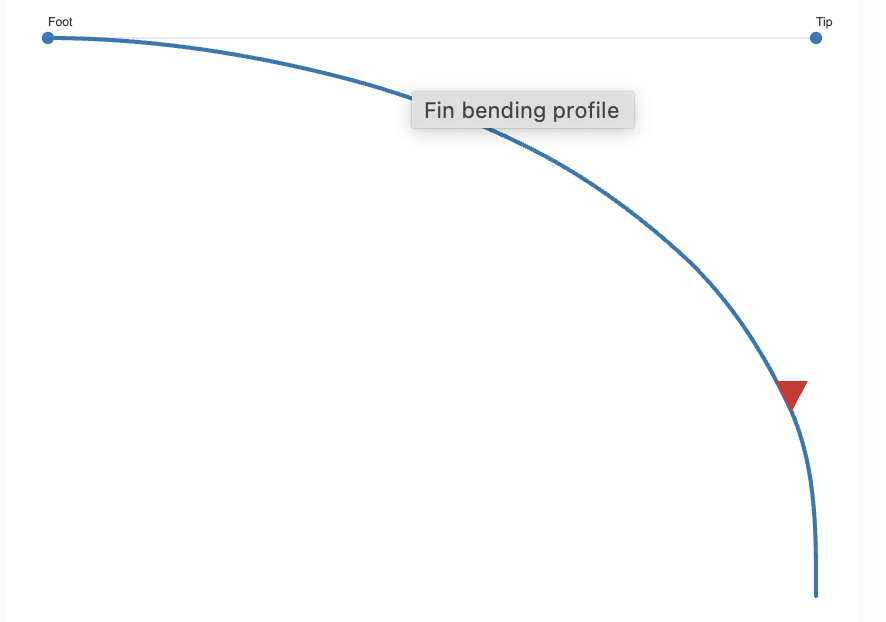
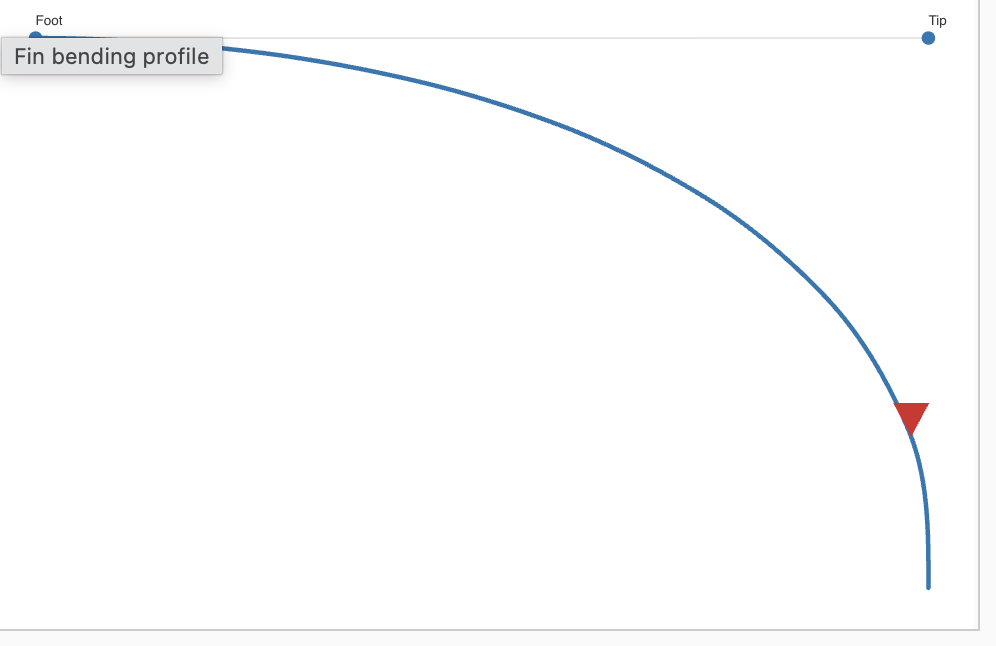
feat: add the monofin plan

Changed region(s): [[0.0, 0.0, 1.0, 0.9775], [0.9142, 0.0, 0.9447, 0.0916]]

diff --git a/docs/projects/monofin/v1/competition-monofin.md b/docs/projects/monofin/v1/competition-monofin.md
@@ -51,13 +51,15 @@ Target outline for the monofin:
 
 For this build I am going to be using a triangles to smooth the transition between the various thickness levels.
 
-- Reserve 17 cm (+3cm tolerance) from the heel line for the bend zone.
+- Reserve 20 cm (17+3cm tolerance) from the heel line for the bend zone.
 - Layer 1: 20 cm × 70 cm
-- Layer 2: 20 cm × 50 cm
-- Layer 3: 20 cm × 70 cm cutout triangles
-- Layer 4: 20 cm × 50 cm cutout triangles
-- Layer 5: 20 cm × 35 cm
-- Layer 6: 20 cm × 70 cm top ply
+- Layer 2: 20 cm × 70 cm cutout triangles
+- Layer 3: 20 cm × 70 cm ^ mid shape triangle
+- Layer 4: 20 cm x 65(-10) V side shape
+- Layer 5: 20 cm x 55(-10) V side shape
+- Layer 6: 20 cm x 45(-10) V side shape
+- Layer 7: 20 cm x 35(-10) V side shape
+- Layer 8: 20 cm × 70 cm top ply
 
 
 | ![Expanded Laminate View](expanded.svg) | ![Laminate Thickness Profile](thickness.svg) |
@@ -67,28 +69,29 @@ For this build I am going to be using a triangles to smooth the transition betwe
 
 #### Cutting plan
 
-For this build I am going to use carbon cloth in a different colour for the top layers in order to create a better visual effect.
-
-|  | ![Cutting plan for top layers](cutting_plan_green.svg) | ![Cutting plan for the internal layers](cutting_plan_black.svg) |
-|--|--------------------------------------------------------|-----------------------------------------------------------------|
-|  | Cutting plan for top layers                            |  Cutting plan for the internal layers                                                               |
+|  | ![Cutting plan](cutting_plan.svg) |  |
+|--|---------------------------------------------------|--|
+|  | Cutting plan                     |  |
 
 ### Estimating the flex
 Start with the [Flex predictor modelling](../../../techniques/predicting-flex/v1/tapered-cantilever-beam.md) workflow to sanity-check the layup. Adjust the layer stack and bend allowance until the predicted deflection matches your training goal.
 
 Free blade length [mm]: 520
 Blade width [mm]: 700
-Layers at foot: 6
+Layers at foot: 8
 Layers at tip: 2
-Min layer length [mm]: 150
+Min layer length [mm]: 100
 
 | ![Bending Calculation](bending_calculation.png) | ![Bending Profile](bending_profile.png) |
 |-------------------------------------------------|-----------------------------------------|
 | Bending Calculation                             | Bending Profile                         |
 
+Notes: 
+- As we are cutting the monofin shape, the stiffness and hydrodynamic resistance is going to be lower
+- The actual bending point will move toward mid-blade as we are cutting out triangles to taper the stiffness
+
 
 Predicted:
-
 - Load required for 90° = 55.8 N (5.68 kg)
 - Hydrodynamic resistance score 5N = 23.32 units
 - Hydrodynamic resistance score 10N = 22.28 units

diff --git a/docs/projects/long-fins/v2/competition-fins.md b/docs/projects/long-fins/v2/competition-fins.md
@@ -52,7 +52,7 @@ Target outline for each blade:
 
 For this build I am going to be using a triangles to smooth the transition between the various thickness levels.
 
-- Reserve 17 cm from the heel line for the bend zone.
+- Reserve 20 cm (17+3cm tolerance) from the heel line for the bend zone.
 - Layer 1: 20 cm × 80 cm
 - Layer 2a: 20 cm × 80 cm half triangle
 - Layer 2b: 20 cm × 80 cm the other half triangle
@@ -71,9 +71,9 @@ For this build I am going to be using a triangles to smooth the transition betwe
 
 #### Cutting plan
 
-|  | ![Cutting plan for one blade](cutting_plan.svg) |  |
-|--|-------------------------------------------------|--|
-|  | Cutting plan for first blade                    |  |
+|  | ![Cutting plan for both blades](cutting_plan.svg) |  |
+|--|---------------------------------------------------|--|
+|  | Cutting plan for both blades                      |  |
 
 ### Estimating the flex
 Start with the [Flex predictor modelling](../../../techniques/predicting-flex/v1/tapered-cantilever-beam.md) workflow to sanity-check the layup. Adjust the layer stack and bend allowance until the predicted deflection matches your training goal.
